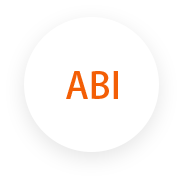
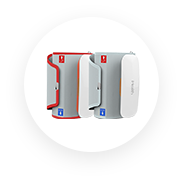
1.Replace some img

Changed region(s): [[0.2459, 0.2732, 0.765, 0.6557]]

diff --git a/src/app/components/development/development_app_reg/development_app_reg.html b/src/app/components/development/development_app_reg/development_app_reg.html
@@ -111,7 +111,7 @@
                 <div class="modal-content">
                   <div class="modal-body" style="padding: 0">
                     <div class="selectDevice-title">
-                      <a data-dismiss="modal"><img src="../../../../assets/images/delete.png"></a>
+                      <a data-dismiss="modal"><img src="../../../../assets/images/x.png"></a>
                       <p>Select A Device</p>
                     </div>
 
@@ -158,7 +158,7 @@
                     </div>
 
                     <div style="text-align: left; display: flex; margin-left: 5%; margin-right: 5%">
-                      <div style="flex: 3">
+                      <div style="flex: 3; margin-right: 10px">
                         <div class="selectDevice-deviceTile" style="opacity: 0">
                           空
                         </div>
@@ -169,21 +169,21 @@
                             <p>(KN550BT)</p>
                           </div>
                           <div class="selectDevice-device" (click)="selectDevice(i, 'ABI')" data-dismiss="modal">
-                            <img src="../../../../assets/images/device_bp5.png">
+                            <img src="../../../../assets/images/device_abi.png">
                             <p>CardioLab</p>
                             <p>(ABI)</p>
                           </div>
                           <div class="selectDevice-device" (click)="selectDevice(i, 'ABP100')" data-dismiss="modal">
-                            <img src="../../../../assets/images/device_bp5.png">
+                            <img src="../../../../assets/images/device_abpm.png">
                             <p>CardioMed</p>
                             <p>(ABP100)</p>
                           </div>
                         </div>
                       </div>
 
-                      <div style="flex: 3;">
+                      <div style="flex: 3; margin-right: 10px">
                         <div class="selectDevice-deviceTile">
-                          Blood Pressure
+                          Sports
                         </div>
                         <div class="selectDevice-deviceBlock" style="margin: 0">
                           <div class="selectDevice-device" (click)="selectDevice(i, 'AM3')" data-dismiss="modal">
@@ -226,7 +226,7 @@
                       </div>
                       <div class="selectDevice-deviceBlock">
                         <div class="selectDevice-device" (click)="selectDevice(i, 'HS2')" data-dismiss="modal">
-                          <img src="../../../../assets/images/device_hs3.png">
+                          <img src="../../../../assets/images/device_hs2.png">
                           <p>Lina</p>
                           <p>(HS2)</p>
                         </div>
@@ -262,7 +262,7 @@
                       </div>
                     </div>
                     <div style="text-align: left; display: flex; margin-left: 5%; margin-right: 5%">
-                      <div style="flex: 3">
+                      <div style="flex: 3; margin-right: 10px">
                         <div class="selectDevice-deviceTile" style="opacity: 0">
                           空
                         </div>
@@ -291,7 +291,7 @@
                         </div>
                         <div class="selectDevice-deviceBlock" style="margin: 0">
                           <div class="selectDevice-device" (click)="selectDevice(i, 'ECG3')" data-dismiss="modal">
-                            <img src="../../../../assets/images/device_bp5.png">
+                            <img src="../../../../assets/images/device_ecg3.png">
                             <p>Rhythm</p>
                             <p>(ECG3)</p>
                           </div>

diff --git a/src/app/components/version/version_android/android.component.html b/src/app/components/version/version_android/android.component.html
@@ -17,7 +17,7 @@
       <p>{{scheme.version}}</p>
       <p>{{scheme.createTime | date: 'yyyy/MM/dd'}}</p>
       <p>
-        <a [routerLink]="['/detail',scheme._id]" routerLinkActive="active"><img src="../../../../assets/images/add.png"></a>
+        <a [routerLink]="['/detail',scheme._id]" routerLinkActive="active"><img src="../../../../assets/images/detail.png"></a>
       </p>
     </div>
   </div>

diff --git a/src/app/components/version/version_ios/ios.component.html b/src/app/components/version/version_ios/ios.component.html
@@ -17,7 +17,7 @@
       <p>{{scheme.version}}</p>
       <p>{{scheme.createTime | date: 'yyyy/MM/dd'}}</p>
       <p>
-        <a [routerLink]="['/detail',scheme._id]" routerLinkActive="active"><img src="../../../../assets/images/add.png"></a>
+        <a [routerLink]="['/detail',scheme._id]" routerLinkActive="active"><img src="../../../../assets/images/detail.png"></a>
       </p>
     </div>
   </div>
